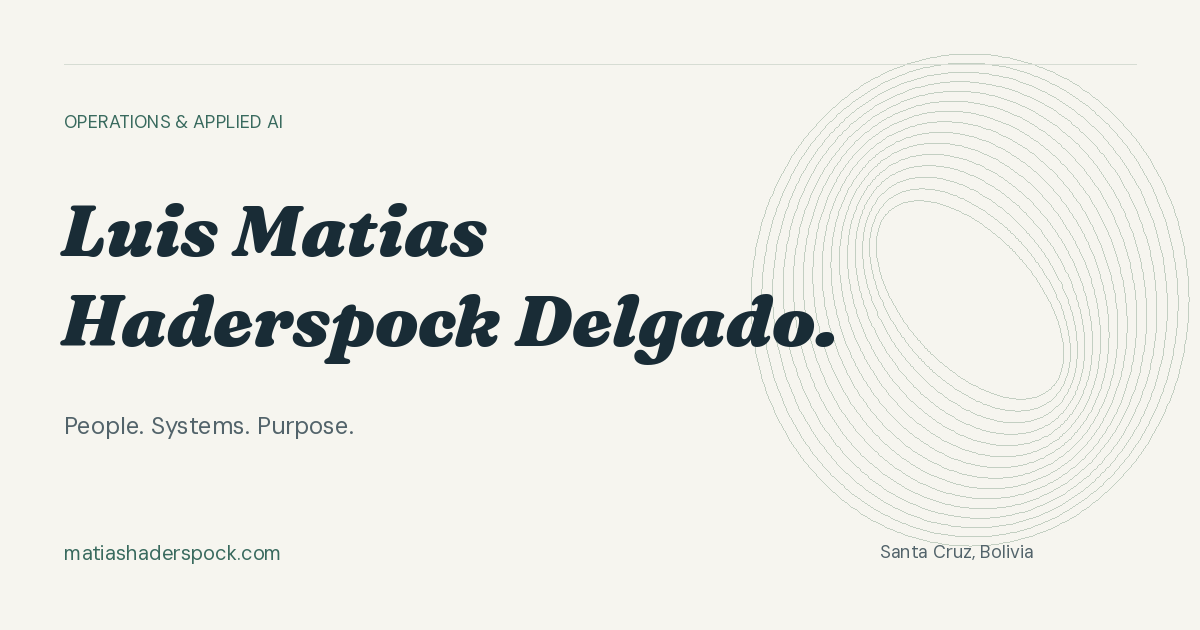
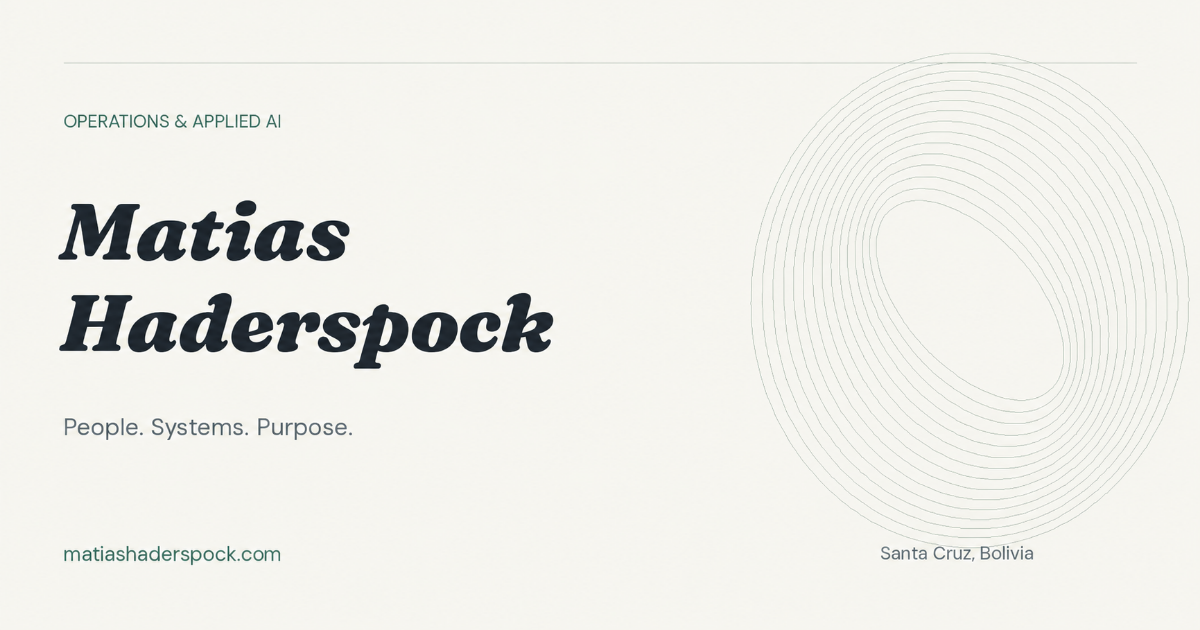
Show name as Matias Haderspock

diff --git a/public/es/index.html b/public/es/index.html
@@ -6,7 +6,7 @@
   <meta name="color-scheme" content="light dark">
   <meta name="theme-color" content="#f6f5ef">
   <title>Matias Haderspock — Operaciones e IA aplicada</title>
-  <meta name="description" content="Luis Matias Haderspock Delgado, Country Head de Operaciones Logísticas de Yango Bolivia. Personas, logística y herramientas de IA y automatización con propósito.">
+  <meta name="description" content="Matias Haderspock, Country Head de Operaciones Logísticas de Yango Bolivia. Personas, logística y herramientas de IA y automatización con propósito.">
 
   <link rel="canonical" href="https://matiashaderspock.com/es/">
   <link rel="alternate" hreflang="en" href="https://matiashaderspock.com/">
@@ -15,7 +15,7 @@
   <meta property="og:type" content="website">
   <meta property="og:site_name" content="Matias Haderspock">
   <meta property="og:title" content="Matias Haderspock — Operaciones e IA aplicada">
-  <meta property="og:description" content="Luis Matias Haderspock Delgado, Country Head de Operaciones Logísticas de Yango Bolivia. Personas, logística y herramientas de IA y automatización con propósito.">
+  <meta property="og:description" content="Matias Haderspock, Country Head de Operaciones Logísticas de Yango Bolivia. Personas, logística y herramientas de IA y automatización con propósito.">
   <meta property="og:url" content="https://matiashaderspock.com/es/">
   <meta property="og:locale" content="es_BO">
   <meta property="og:locale:alternate" content="en_US">
@@ -25,7 +25,7 @@
   <meta property="og:image:alt" content="Matias Haderspock — Operaciones e IA aplicada">
   <meta name="twitter:card" content="summary_large_image">
   <meta name="twitter:title" content="Matias Haderspock — Operaciones e IA aplicada">
-  <meta name="twitter:description" content="Luis Matias Haderspock Delgado, Country Head de Operaciones Logísticas de Yango Bolivia. Personas, logística y herramientas de IA y automatización con propósito.">
+  <meta name="twitter:description" content="Matias Haderspock, Country Head de Operaciones Logísticas de Yango Bolivia. Personas, logística y herramientas de IA y automatización con propósito.">
   <meta name="twitter:image" content="https://matiashaderspock.com/assets/og-es.png">
   <link rel="icon" href="/favicon.svg" type="image/svg+xml">
   <link rel="icon" href="/favicon.ico" sizes="32x32">
@@ -48,14 +48,14 @@
   </header>
   <main id="main" tabindex="-1">
     <section class="hero wrap" aria-labelledby="hero-title">
-      <div class="hero-content"><p class="eyebrow"><span class="small-rule"></span>Líder de operaciones y creador curioso</p><h1 id="hero-title">Luis Matias<br>Haderspock <em>Delgado.</em></h1><p class="hero-intro">Country Head de Operaciones Logísticas de <strong>Yango Bolivia.</strong> Lidero personas y desarrollo herramientas de IA y automatización para mejorar las operaciones del día a día.</p><div class="hero-actions"><a class="button primary" href="#work">Explorar mis proyectos <span aria-hidden="true">↘</span></a><a class="text-link" href="/es/resume/">Ver currículum <span aria-hidden="true">↗</span></a></div><p class="location"><span class="location-dot" aria-hidden="true"></span>Desde Santa Cruz, Bolivia<span class="location-time">UTC−4</span></p><div class="hero-socials"><ul class="social-links"><li><a href="https://github.com/matiashaderspock-ai">GitHub <span aria-hidden="true">↗</span></a></li><li><a href="https://www.linkedin.com/in/matiashaderspock/">LinkedIn <span aria-hidden="true">↗</span></a></li><li><a href="https://x.com/pandasczos">X <span aria-hidden="true">↗</span></a></li></ul></div></div>
+      <div class="hero-content"><p class="eyebrow"><span class="small-rule"></span>Líder de operaciones y creador curioso</p><h1 id="hero-title">Matias<br><em>Haderspock</em></h1><p class="hero-intro">Country Head de Operaciones Logísticas de <strong>Yango Bolivia.</strong> Lidero personas y desarrollo herramientas de IA y automatización para mejorar las operaciones del día a día.</p><div class="hero-actions"><a class="button primary" href="#work">Explorar mis proyectos <span aria-hidden="true">↘</span></a><a class="text-link" href="/es/resume/">Ver currículum <span aria-hidden="true">↗</span></a></div><p class="location"><span class="location-dot" aria-hidden="true"></span>Desde Santa Cruz, Bolivia<span class="location-time">UTC−4</span></p><div class="hero-socials"><ul class="social-links"><li><a href="https://github.com/matiashaderspock-ai">GitHub <span aria-hidden="true">↗</span></a></li><li><a href="https://www.linkedin.com/in/matiashaderspock/">LinkedIn <span aria-hidden="true">↗</span></a></li><li><a href="https://x.com/pandasczos">X <span aria-hidden="true">↗</span></a></li></ul></div></div>
       <div class="hero-art" aria-hidden="true"><span class="art-caption">PERSONAS / SISTEMAS / PROPÓSITO</span><div class="ambient-glow"></div><svg class="contour" viewBox="0 0 460 470" fill="none"><g><ellipse cx="230" cy="235" rx="66" ry="105" transform="rotate(-42 230 235)"/><ellipse cx="230" cy="235" rx="76" ry="113" transform="rotate(-39 230 235)"/><ellipse cx="230" cy="235" rx="86" ry="121" transform="rotate(-36 230 235)"/><ellipse cx="230" cy="235" rx="96" ry="129" transform="rotate(-33 230 235)"/><ellipse cx="230" cy="235" rx="106" ry="137" transform="rotate(-30 230 235)"/><ellipse cx="230" cy="235" rx="116" ry="145" transform="rotate(-27 230 235)"/><ellipse cx="230" cy="235" rx="126" ry="153" transform="rotate(-24 230 235)"/><ellipse cx="230" cy="235" rx="136" ry="161" transform="rotate(-21 230 235)"/><ellipse cx="230" cy="235" rx="146" ry="169" transform="rotate(-18 230 235)"/><ellipse cx="230" cy="235" rx="156" ry="177" transform="rotate(-15 230 235)"/><ellipse cx="230" cy="235" rx="166" ry="185" transform="rotate(-12 230 235)"/><ellipse cx="230" cy="235" rx="176" ry="193" transform="rotate(-9 230 235)"/><ellipse cx="230" cy="235" rx="186" ry="201" transform="rotate(-6 230 235)"/><ellipse cx="230" cy="235" rx="196" ry="209" transform="rotate(-3 230 235)"/></g><circle class="orbit-point" cx="346" cy="120" r="5"/></svg><div class="art-note">Un poco de estructura.<br>Más espacio para hacer.</div><span class="art-bottom"><span></span>OPERACIONES × IA APLICADA</span></div>
     </section>
     <section class="section wrap" id="work" aria-labelledby="work-title"><div class="section-heading reveal"><div><p class="eyebrow">01 / Proyectos seleccionados</p><h2 id="work-title">Creados con propósito.</h2></div><p>Pequeñas herramientas para la vida real. Algunas cosas que diseñé para aportar claridad al trabajo, las finanzas y el movimiento.</p></div><div class="projects-grid"><article class="project-card reveal" id="grok"><div class="project-top"><div class="project-icon icon-grok"><svg width="48" height="48" viewBox="0 0 48 48" fill="none" stroke="currentColor" stroke-width="1.5" stroke-linecap="round" stroke-linejoin="round" aria-hidden="true"><circle cx="24" cy="24" r="5"/><circle cx="10" cy="10" r="3"/><circle cx="38" cy="10" r="3"/><circle cx="10" cy="38" r="3"/><circle cx="38" cy="38" r="3"/><path d="m12 12 8 8m8 8 8 8m-24 0 8-8m8-8 8-8"/></svg></div><span class="project-number" aria-hidden="true">01</span></div><p class="eyebrow project-category">IA y automatización</p><h3>Grok Bot fleet</h3><p class="project-description">Un equipo de agentes de IA que diseñé para ayudar a organizar mi trabajo y mi vida: un jefe de gabinete, un PM de desarrollo y especialistas en finanzas y operaciones.</p><ul class="tags" aria-label="Tecnologías y temas"><li>Agentes de IA</li><li>Sistemas personales</li></ul></article>
 <article class="project-card reveal" id="monitor"><div class="project-top"><div class="project-icon icon-monitor"><svg width="48" height="48" viewBox="0 0 48 48" fill="none" stroke="currentColor" stroke-width="1.5" stroke-linecap="round" stroke-linejoin="round" aria-hidden="true"><rect x="7" y="8" width="34" height="27" rx="5"/><path d="m14 35-3 7 12-7M15 17h18M15 24h11"/><circle cx="34" cy="25" r="2"/></svg></div><span class="project-number" aria-hidden="true">02</span></div><p class="eyebrow project-category">Logística y lenguaje</p><h3>Monitor Bol</h3><p class="project-repo">courier-sentiment-bot</p><p class="project-description">Un bot de Telegram en Python que analiza con Gemini los chats de grupos de repartidores de Santa Cruz, Cochabamba y La Paz. Se ejecuta en GitHub Actions y envía reportes de moderación con problemas, acciones y preguntas pendientes.</p><ul class="tags" aria-label="Tecnologías y temas"><li>Python</li><li>Gemini</li><li>Telegram</li></ul></article>
 <article class="project-card reveal" id="gastalo"><div class="project-top"><div class="project-icon icon-gastalo"><svg width="48" height="48" viewBox="0 0 48 48" fill="none" stroke="currentColor" stroke-width="1.5" stroke-linecap="round" stroke-linejoin="round" aria-hidden="true"><rect x="7" y="12" width="34" height="27" rx="5"/><path d="M12 12V9a3 3 0 0 1 3-3h21v6M41 22H30v9h11"/><circle cx="33" cy="26.5" r=".8"/></svg></div><span class="project-number" aria-hidden="true">03</span></div><p class="eyebrow project-category">Finanzas personales</p><h3>Gástalo</h3><p class="project-description">Una aplicación web progresiva de finanzas personales. Un espacio dedicado a la práctica cotidiana de administrar el dinero.</p><ul class="tags" aria-label="Tecnologías y temas"><li>Finanzas</li><li>PWA</li></ul><div class="project-bottom"><a class="text-link" href="https://matiashaderspock-ai.github.io/gastalo/">Abrir aplicación <span class="sr-only">— Gástalo</span> <span aria-hidden="true">↗</span></a><a class="text-link" href="https://github.com/matiashaderspock-ai/gastalo">Ver en GitHub <span class="sr-only">— Gástalo</span> <span aria-hidden="true">↗</span></a></div></article>
 <article class="project-card reveal" id="cumpafit"><div class="project-top"><div class="project-icon icon-cumpafit"><svg width="48" height="48" viewBox="0 0 48 48" fill="none" stroke="currentColor" stroke-width="1.5" stroke-linecap="round" stroke-linejoin="round" aria-hidden="true"><path d="M16 24h16M8 18v12m5-17v22m27-17v12m-5-17v22M8 24H5m35 0h3"/></svg></div><span class="project-number" aria-hidden="true">04</span></div><p class="eyebrow project-category">Salud y movimiento</p><h3>Cumpafit</h3><p class="project-description">Una aplicación web progresiva de fitness, creada con JavaScript puro. Un proyecto personal que une el movimiento con las ganas de crear.</p><ul class="tags" aria-label="Tecnologías y temas"><li>Vanilla JS</li><li>PWA</li></ul><div class="project-bottom"><a class="text-link" href="https://matiashaderspock-ai.github.io/cumpafit/">Abrir aplicación <span class="sr-only">— Cumpafit</span> <span aria-hidden="true">↗</span></a><a class="text-link" href="https://github.com/matiashaderspock-ai/cumpafit">Ver en GitHub <span class="sr-only">— Cumpafit</span> <span aria-hidden="true">↗</span></a></div></article></div></section>
-    <section class="about-section section" id="about" aria-labelledby="about-title"><div class="wrap about-grid"><div class="reveal"><p class="eyebrow">02 / La persona detrás de las herramientas</p><h2 id="about-title">Primero las personas.<br>Sistemas que ayudan.</h2><svg class="about-monogram" width="250" height="180" viewBox="0 0 250 180" aria-hidden="true"><text x="0" y="145" fill="currentColor">mh.</text></svg></div><div class="about-copy reveal"><p class="lead">Soy Luis Matias Haderspock Delgado, líder de operaciones en Santa Cruz, Bolivia. Mi trabajo conecta la logística, las personas y la tecnología práctica.</p><p>En Yango en Santa Cruz, lidero equipos de back office en Activación, Moderación, Call Center y Soporte, junto con una red de repartidores. Alcanzamos el puesto #1 a nivel global en indicadores de calidad desde el primer mes. Antes, creé desde cero el Departamento de Logística de Santa Cruz Services S.A. (Grupo Fassil), lideré un equipo de back office de 60 personas, definí las políticas administrativas y financieras del Grupo para la cadena de suministro nacional y gestioné la entrega de tarjetas de última milla en todo el país.</p><dl class="stats"><div><dt>35+</dt><dd>personas de back office</dd></div><div><dt>1.500+</dt><dd>repartidores</dd></div></dl><p class="stats-note">Alcance del liderazgo en Yango Bolivia</p><h3>Una perspectiva más amplia</h3><p>Viví en Alemania aproximadamente seis años y hablo español, inglés y alemán. Fuera del trabajo: fútbol, calistenia, cocina y una buena taza de café.</p><a class="text-link" href="/es/resume/">Experiencia, formación y más <span aria-hidden="true">↗</span></a></div></div></section>
+    <section class="about-section section" id="about" aria-labelledby="about-title"><div class="wrap about-grid"><div class="reveal"><p class="eyebrow">02 / La persona detrás de las herramientas</p><h2 id="about-title">Primero las personas.<br>Sistemas que ayudan.</h2><svg class="about-monogram" width="250" height="180" viewBox="0 0 250 180" aria-hidden="true"><text x="0" y="145" fill="currentColor">mh.</text></svg></div><div class="about-copy reveal"><p class="lead">Soy Matias Haderspock, líder de operaciones en Santa Cruz, Bolivia. Mi trabajo conecta la logística, las personas y la tecnología práctica.</p><p>En Yango en Santa Cruz, lidero equipos de back office en Activación, Moderación, Call Center y Soporte, junto con una red de repartidores. Alcanzamos el puesto #1 a nivel global en indicadores de calidad desde el primer mes. Antes, creé desde cero el Departamento de Logística de Santa Cruz Services S.A. (Grupo Fassil), lideré un equipo de back office de 60 personas, definí las políticas administrativas y financieras del Grupo para la cadena de suministro nacional y gestioné la entrega de tarjetas de última milla en todo el país.</p><dl class="stats"><div><dt>35+</dt><dd>personas de back office</dd></div><div><dt>1.500+</dt><dd>repartidores</dd></div></dl><p class="stats-note">Alcance del liderazgo en Yango Bolivia</p><h3>Una perspectiva más amplia</h3><p>Viví en Alemania aproximadamente seis años y hablo español, inglés y alemán. Fuera del trabajo: fútbol, calistenia, cocina y una buena taza de café.</p><a class="text-link" href="/es/resume/">Experiencia, formación y más <span aria-hidden="true">↗</span></a></div></div></section>
     <section class="contact-section wrap section reveal" id="contact" aria-labelledby="contact-title"><p class="eyebrow">03 / Sigamos en contacto</p><h2 id="contact-title">Las buenas ideas<br>empiezan conversando.</h2><p class="contact-copy">Encuentra mis proyectos en GitHub o conecta conmigo en LinkedIn y X.</p><ul class="social-links"><li><a href="https://github.com/matiashaderspock-ai">GitHub <span aria-hidden="true">↗</span></a></li><li><a href="https://www.linkedin.com/in/matiashaderspock/">LinkedIn <span aria-hidden="true">↗</span></a></li><li><a href="https://x.com/pandasczos">X <span aria-hidden="true">↗</span></a></li></ul></section>
   </main>
   <footer class="site-footer wrap"><p>© 2026 Matias Haderspock<span>Creado con cuidado en Santa Cruz, Bolivia.</span></p><a href="#top">Volver arriba <span aria-hidden="true">↑</span></a></footer>

diff --git a/public/index.html b/public/index.html
@@ -6,7 +6,7 @@
   <meta name="color-scheme" content="light dark">
   <meta name="theme-color" content="#f6f5ef">
   <title>Matias Haderspock — Operations &amp; applied AI</title>
-  <meta name="description" content="Luis Matias Haderspock Delgado, Country Head of Logistics Operations at Yango Bolivia. People, logistics, and thoughtfully built AI and automation tools.">
+  <meta name="description" content="Matias Haderspock, Country Head of Logistics Operations at Yango Bolivia. People, logistics, and thoughtfully built AI and automation tools.">
 
   <link rel="canonical" href="https://matiashaderspock.com/">
   <link rel="alternate" hreflang="en" href="https://matiashaderspock.com/">
@@ -15,7 +15,7 @@
   <meta property="og:type" content="website">
   <meta property="og:site_name" content="Matias Haderspock">
   <meta property="og:title" content="Matias Haderspock — Operations &amp; applied AI">
-  <meta property="og:description" content="Luis Matias Haderspock Delgado, Country Head of Logistics Operations at Yango Bolivia. People, logistics, and thoughtfully built AI and automation tools.">
+  <meta property="og:description" content="Matias Haderspock, Country Head of Logistics Operations at Yango Bolivia. People, logistics, and thoughtfully built AI and automation tools.">
   <meta property="og:url" content="https://matiashaderspock.com/">
   <meta property="og:locale" content="en_US">
   <meta property="og:locale:alternate" content="es_BO">
@@ -25,7 +25,7 @@
   <meta property="og:image:alt" content="Matias Haderspock — Operations &amp; applied AI">
   <meta name="twitter:card" content="summary_large_image">
   <meta name="twitter:title" content="Matias Haderspock — Operations &amp; applied AI">
-  <meta name="twitter:description" content="Luis Matias Haderspock Delgado, Country Head of Logistics Operations at Yango Bolivia. People, logistics, and thoughtfully built AI and automation tools.">
+  <meta name="twitter:description" content="Matias Haderspock, Country Head of Logistics Operations at Yango Bolivia. People, logistics, and thoughtfully built AI and automation tools.">
   <meta name="twitter:image" content="https://matiashaderspock.com/assets/og-en.png">
   <link rel="icon" href="/favicon.svg" type="image/svg+xml">
   <link rel="icon" href="/favicon.ico" sizes="32x32">
@@ -48,14 +48,14 @@
   </header>
   <main id="main" tabindex="-1">
     <section class="hero wrap" aria-labelledby="hero-title">
-      <div class="hero-content"><p class="eyebrow"><span class="small-rule"></span>Operations leader & curious builder</p><h1 id="hero-title">Luis Matias<br>Haderspock <em>Delgado.</em></h1><p class="hero-intro">Country Head of Logistics Operations at <strong>Yango Bolivia.</strong> I lead people and build AI and automation tools to make everyday operations work better.</p><div class="hero-actions"><a class="button primary" href="#work">Explore my projects <span aria-hidden="true">↘</span></a><a class="text-link" href="/resume/">View résumé <span aria-hidden="true">↗</span></a></div><p class="location"><span class="location-dot" aria-hidden="true"></span>Based in Santa Cruz, Bolivia<span class="location-time">UTC−4</span></p><div class="hero-socials"><ul class="social-links"><li><a href="https://github.com/matiashaderspock-ai">GitHub <span aria-hidden="true">↗</span></a></li><li><a href="https://www.linkedin.com/in/matiashaderspock/">LinkedIn <span aria-hidden="true">↗</span></a></li><li><a href="https://x.com/pandasczos">X <span aria-hidden="true">↗</span></a></li></ul></div></div>
+      <div class="hero-content"><p class="eyebrow"><span class="small-rule"></span>Operations leader & curious builder</p><h1 id="hero-title">Matias<br><em>Haderspock</em></h1><p class="hero-intro">Country Head of Logistics Operations at <strong>Yango Bolivia.</strong> I lead people and build AI and automation tools to make everyday operations work better.</p><div class="hero-actions"><a class="button primary" href="#work">Explore my projects <span aria-hidden="true">↘</span></a><a class="text-link" href="/resume/">View résumé <span aria-hidden="true">↗</span></a></div><p class="location"><span class="location-dot" aria-hidden="true"></span>Based in Santa Cruz, Bolivia<span class="location-time">UTC−4</span></p><div class="hero-socials"><ul class="social-links"><li><a href="https://github.com/matiashaderspock-ai">GitHub <span aria-hidden="true">↗</span></a></li><li><a href="https://www.linkedin.com/in/matiashaderspock/">LinkedIn <span aria-hidden="true">↗</span></a></li><li><a href="https://x.com/pandasczos">X <span aria-hidden="true">↗</span></a></li></ul></div></div>
       <div class="hero-art" aria-hidden="true"><span class="art-caption">PEOPLE / SYSTEMS / PURPOSE</span><div class="ambient-glow"></div><svg class="contour" viewBox="0 0 460 470" fill="none"><g><ellipse cx="230" cy="235" rx="66" ry="105" transform="rotate(-42 230 235)"/><ellipse cx="230" cy="235" rx="76" ry="113" transform="rotate(-39 230 235)"/><ellipse cx="230" cy="235" rx="86" ry="121" transform="rotate(-36 230 235)"/><ellipse cx="230" cy="235" rx="96" ry="129" transform="rotate(-33 230 235)"/><ellipse cx="230" cy="235" rx="106" ry="137" transform="rotate(-30 230 235)"/><ellipse cx="230" cy="235" rx="116" ry="145" transform="rotate(-27 230 235)"/><ellipse cx="230" cy="235" rx="126" ry="153" transform="rotate(-24 230 235)"/><ellipse cx="230" cy="235" rx="136" ry="161" transform="rotate(-21 230 235)"/><ellipse cx="230" cy="235" rx="146" ry="169" transform="rotate(-18 230 235)"/><ellipse cx="230" cy="235" rx="156" ry="177" transform="rotate(-15 230 235)"/><ellipse cx="230" cy="235" rx="166" ry="185" transform="rotate(-12 230 235)"/><ellipse cx="230" cy="235" rx="176" ry="193" transform="rotate(-9 230 235)"/><ellipse cx="230" cy="235" rx="186" ry="201" transform="rotate(-6 230 235)"/><ellipse cx="230" cy="235" rx="196" ry="209" transform="rotate(-3 230 235)"/></g><circle class="orbit-point" cx="346" cy="120" r="5"/></svg><div class="art-note">A little structure.<br>Room to do more.</div><span class="art-bottom"><span></span>OPERATIONS × APPLIED AI</span></div>
     </section>
     <section class="section wrap" id="work" aria-labelledby="work-title"><div class="section-heading reveal"><div><p class="eyebrow">01 / Selected projects</p><h2 id="work-title">Built with purpose.</h2></div><p>Small tools for real life. A few things I’ve designed to bring more clarity to work, money, and movement.</p></div><div class="projects-grid"><article class="project-card reveal" id="grok"><div class="project-top"><div class="project-icon icon-grok"><svg width="48" height="48" viewBox="0 0 48 48" fill="none" stroke="currentColor" stroke-width="1.5" stroke-linecap="round" stroke-linejoin="round" aria-hidden="true"><circle cx="24" cy="24" r="5"/><circle cx="10" cy="10" r="3"/><circle cx="38" cy="10" r="3"/><circle cx="10" cy="38" r="3"/><circle cx="38" cy="38" r="3"/><path d="m12 12 8 8m8 8 8 8m-24 0 8-8m8-8 8-8"/></svg></div><span class="project-number" aria-hidden="true">01</span></div><p class="eyebrow project-category">AI & automation</p><h3>Grok Bot fleet</h3><p class="project-description">A team of AI agents I designed to help run my work and life: a chief of staff, a coding PM, and specialists in finance and operations.</p><ul class="tags" aria-label="Technologies and topics"><li>AI agents</li><li>Personal systems</li></ul></article>
 <article class="project-card reveal" id="monitor"><div class="project-top"><div class="project-icon icon-monitor"><svg width="48" height="48" viewBox="0 0 48 48" fill="none" stroke="currentColor" stroke-width="1.5" stroke-linecap="round" stroke-linejoin="round" aria-hidden="true"><rect x="7" y="8" width="34" height="27" rx="5"/><path d="m14 35-3 7 12-7M15 17h18M15 24h11"/><circle cx="34" cy="25" r="2"/></svg></div><span class="project-number" aria-hidden="true">02</span></div><p class="eyebrow project-category">Logistics & language</p><h3>Monitor Bol</h3><p class="project-repo">courier-sentiment-bot</p><p class="project-description">A Python Telegram bot that analyzes courier group chats in Santa Cruz, Cochabamba, and La Paz with Gemini. It runs on GitHub Actions and sends moderation reports with problems, actions, and pending questions.</p><ul class="tags" aria-label="Technologies and topics"><li>Python</li><li>Gemini</li><li>Telegram</li></ul></article>
 <article class="project-card reveal" id="gastalo"><div class="project-top"><div class="project-icon icon-gastalo"><svg width="48" height="48" viewBox="0 0 48 48" fill="none" stroke="currentColor" stroke-width="1.5" stroke-linecap="round" stroke-linejoin="round" aria-hidden="true"><rect x="7" y="12" width="34" height="27" rx="5"/><path d="M12 12V9a3 3 0 0 1 3-3h21v6M41 22H30v9h11"/><circle cx="33" cy="26.5" r=".8"/></svg></div><span class="project-number" aria-hidden="true">03</span></div><p class="eyebrow project-category">Personal finance</p><h3>Gástalo</h3><p class="project-description">A personal finance progressive web app. A dedicated space for the everyday practice of managing money.</p><ul class="tags" aria-label="Technologies and topics"><li>Finance</li><li>PWA</li></ul><div class="project-bottom"><a class="text-link" href="https://matiashaderspock-ai.github.io/gastalo/">Open app <span class="sr-only">— Gástalo</span> <span aria-hidden="true">↗</span></a><a class="text-link" href="https://github.com/matiashaderspock-ai/gastalo">View on GitHub <span class="sr-only">— Gástalo</span> <span aria-hidden="true">↗</span></a></div></article>
 <article class="project-card reveal" id="cumpafit"><div class="project-top"><div class="project-icon icon-cumpafit"><svg width="48" height="48" viewBox="0 0 48 48" fill="none" stroke="currentColor" stroke-width="1.5" stroke-linecap="round" stroke-linejoin="round" aria-hidden="true"><path d="M16 24h16M8 18v12m5-17v22m27-17v12m-5-17v22M8 24H5m35 0h3"/></svg></div><span class="project-number" aria-hidden="true">04</span></div><p class="eyebrow project-category">Health & movement</p><h3>Cumpafit</h3><p class="project-description">A fitness progressive web app, built with vanilla JavaScript. A personal project at the intersection of movement and making things.</p><ul class="tags" aria-label="Technologies and topics"><li>Vanilla JS</li><li>PWA</li></ul><div class="project-bottom"><a class="text-link" href="https://matiashaderspock-ai.github.io/cumpafit/">Open app <span class="sr-only">— Cumpafit</span> <span aria-hidden="true">↗</span></a><a class="text-link" href="https://github.com/matiashaderspock-ai/cumpafit">View on GitHub <span class="sr-only">— Cumpafit</span> <span aria-hidden="true">↗</span></a></div></article></div></section>
-    <section class="about-section section" id="about" aria-labelledby="about-title"><div class="wrap about-grid"><div class="reveal"><p class="eyebrow">02 / The person behind the tools</p><h2 id="about-title">People first.<br>Systems that help.</h2><svg class="about-monogram" width="250" height="180" viewBox="0 0 250 180" aria-hidden="true"><text x="0" y="145" fill="currentColor">mh.</text></svg></div><div class="about-copy reveal"><p class="lead">I’m Luis Matias Haderspock Delgado, an operations leader based in Santa Cruz, Bolivia. My work connects logistics, people, and practical technology.</p><p>At Yango in Santa Cruz, I lead back-office teams across Activation, Moderation, Call Center, and Support, alongside a network of couriers. We ranked #1 globally in quality metrics from the first month. Before that, I built the Logistics Department at Santa Cruz Services S.A. (Fassil Group) from scratch, led a back-office team of 60, set the Group’s administrative and financial policies for the national supply chain, and managed nationwide last-mile card delivery.</p><dl class="stats"><div><dt>35+</dt><dd>back-office staff</dd></div><div><dt>1,500+</dt><dd>couriers</dd></div></dl><p class="stats-note">Scope of leadership at Yango Bolivia</p><h3>A broader perspective</h3><p>I lived in Germany for approximately six years and speak Spanish, English, and German. Outside work: football, calisthenics, cooking, and a good cup of coffee.</p><a class="text-link" href="/resume/">Experience, education & more <span aria-hidden="true">↗</span></a></div></div></section>
+    <section class="about-section section" id="about" aria-labelledby="about-title"><div class="wrap about-grid"><div class="reveal"><p class="eyebrow">02 / The person behind the tools</p><h2 id="about-title">People first.<br>Systems that help.</h2><svg class="about-monogram" width="250" height="180" viewBox="0 0 250 180" aria-hidden="true"><text x="0" y="145" fill="currentColor">mh.</text></svg></div><div class="about-copy reveal"><p class="lead">I’m Matias Haderspock, an operations leader based in Santa Cruz, Bolivia. My work connects logistics, people, and practical technology.</p><p>At Yango in Santa Cruz, I lead back-office teams across Activation, Moderation, Call Center, and Support, alongside a network of couriers. We ranked #1 globally in quality metrics from the first month. Before that, I built the Logistics Department at Santa Cruz Services S.A. (Fassil Group) from scratch, led a back-office team of 60, set the Group’s administrative and financial policies for the national supply chain, and managed nationwide last-mile card delivery.</p><dl class="stats"><div><dt>35+</dt><dd>back-office staff</dd></div><div><dt>1,500+</dt><dd>couriers</dd></div></dl><p class="stats-note">Scope of leadership at Yango Bolivia</p><h3>A broader perspective</h3><p>I lived in Germany for approximately six years and speak Spanish, English, and German. Outside work: football, calisthenics, cooking, and a good cup of coffee.</p><a class="text-link" href="/resume/">Experience, education & more <span aria-hidden="true">↗</span></a></div></div></section>
     <section class="contact-section wrap section reveal" id="contact" aria-labelledby="contact-title"><p class="eyebrow">03 / Stay connected</p><h2 id="contact-title">Good things start<br>with a conversation.</h2><p class="contact-copy">Find my projects on GitHub, or connect with me on LinkedIn and X.</p><ul class="social-links"><li><a href="https://github.com/matiashaderspock-ai">GitHub <span aria-hidden="true">↗</span></a></li><li><a href="https://www.linkedin.com/in/matiashaderspock/">LinkedIn <span aria-hidden="true">↗</span></a></li><li><a href="https://x.com/pandasczos">X <span aria-hidden="true">↗</span></a></li></ul></section>
   </main>
   <footer class="site-footer wrap"><p>© 2026 Matias Haderspock<span>Thoughtfully built in Santa Cruz, Bolivia.</span></p><a href="#top">Back to top <span aria-hidden="true">↑</span></a></footer>

diff --git a/public/es/resume/index.html b/public/es/resume/index.html
@@ -6,7 +6,7 @@
   <meta name="color-scheme" content="light dark">
   <meta name="theme-color" content="#f6f5ef">
   <title>Currículum — Matias Haderspock</title>
-  <meta name="description" content="Experiencia, formación e intereses de Luis Matias Haderspock Delgado: liderazgo logístico en Bolivia, finanzas, IA y automatización.">
+  <meta name="description" content="Experiencia, formación e intereses de Matias Haderspock: liderazgo logístico en Bolivia, finanzas, IA y automatización.">
 
   <link rel="canonical" href="https://matiashaderspock.com/es/resume/">
   <link rel="alternate" hreflang="en" href="https://matiashaderspock.com/resume/">
@@ -15,7 +15,7 @@
   <meta property="og:type" content="website">
   <meta property="og:site_name" content="Matias Haderspock">
   <meta property="og:title" content="Currículum — Matias Haderspock">
-  <meta property="og:description" content="Experiencia, formación e intereses de Luis Matias Haderspock Delgado: liderazgo logístico en Bolivia, finanzas, IA y automatización.">
+  <meta property="og:description" content="Experiencia, formación e intereses de Matias Haderspock: liderazgo logístico en Bolivia, finanzas, IA y automatización.">
   <meta property="og:url" content="https://matiashaderspock.com/es/resume/">
   <meta property="og:locale" content="es_BO">
   <meta property="og:locale:alternate" content="en_US">
@@ -25,7 +25,7 @@
   <meta property="og:image:alt" content="Currículum — Matias Haderspock">
   <meta name="twitter:card" content="summary_large_image">
   <meta name="twitter:title" content="Currículum — Matias Haderspock">
-  <meta name="twitter:description" content="Experiencia, formación e intereses de Luis Matias Haderspock Delgado: liderazgo logístico en Bolivia, finanzas, IA y automatización.">
+  <meta name="twitter:description" content="Experiencia, formación e intereses de Matias Haderspock: liderazgo logístico en Bolivia, finanzas, IA y automatización.">
   <meta name="twitter:image" content="https://matiashaderspock.com/assets/og-es.png">
   <link rel="icon" href="/favicon.svg" type="image/svg+xml">
   <link rel="icon" href="/favicon.ico" sizes="32x32">
@@ -48,7 +48,7 @@
   </header>
   <main class="resume-main wrap" id="main" tabindex="-1">
     <div class="resume-hero"><p class="eyebrow">Experiencia y perspectiva</p><h1>Un currículum, con contexto.</h1><p class="resume-intro">Liderazgo de operaciones, una base en finanzas y un interés práctico por lo que la tecnología puede hacer posible.</p><div class="resume-actions"><button class="button primary print-button" type="button" hidden>Imprimir / Guardar PDF <span aria-hidden="true">↓</span></button><a class="text-link" href="/es/">Volver al inicio <span aria-hidden="true">↗</span></a></div></div>
-    <article class="resume-sheet" aria-labelledby="resume-name"><header class="resume-identity"><div><h2 id="resume-name">Luis Matias Haderspock Delgado</h2><p>Country Head de Operaciones Logísticas · Bolivia</p></div><p>Santa Cruz, Bolivia<br><a href="https://matiashaderspock.com/es/">matiashaderspock.com/es</a></p></header>
+    <article class="resume-sheet" aria-labelledby="resume-name"><header class="resume-identity"><div><h2 id="resume-name">Matias Haderspock</h2><p>Country Head de Operaciones Logísticas · Bolivia</p></div><p>Santa Cruz, Bolivia<br><a href="https://matiashaderspock.com/es/">matiashaderspock.com/es</a></p></header>
       <div class="resume-columns">
         <div class="resume-primary">
           <section aria-labelledby="experience-title">

diff --git a/public/resume/index.html b/public/resume/index.html
@@ -6,7 +6,7 @@
   <meta name="color-scheme" content="light dark">
   <meta name="theme-color" content="#f6f5ef">
   <title>Résumé — Matias Haderspock</title>
-  <meta name="description" content="The experience, education and interests of Luis Matias Haderspock Delgado: logistics leadership in Bolivia, finance, AI and automation.">
+  <meta name="description" content="The experience, education and interests of Matias Haderspock: logistics leadership in Bolivia, finance, AI and automation.">
 
   <link rel="canonical" href="https://matiashaderspock.com/resume/">
   <link rel="alternate" hreflang="en" href="https://matiashaderspock.com/resume/">
@@ -15,7 +15,7 @@
   <meta property="og:type" content="website">
   <meta property="og:site_name" content="Matias Haderspock">
   <meta property="og:title" content="Résumé — Matias Haderspock">
-  <meta property="og:description" content="The experience, education and interests of Luis Matias Haderspock Delgado: logistics leadership in Bolivia, finance, AI and automation.">
+  <meta property="og:description" content="The experience, education and interests of Matias Haderspock: logistics leadership in Bolivia, finance, AI and automation.">
   <meta property="og:url" content="https://matiashaderspock.com/resume/">
   <meta property="og:locale" content="en_US">
   <meta property="og:locale:alternate" content="es_BO">
@@ -25,7 +25,7 @@
   <meta property="og:image:alt" content="Résumé — Matias Haderspock">
   <meta name="twitter:card" content="summary_large_image">
   <meta name="twitter:title" content="Résumé — Matias Haderspock">
-  <meta name="twitter:description" content="The experience, education and interests of Luis Matias Haderspock Delgado: logistics leadership in Bolivia, finance, AI and automation.">
+  <meta name="twitter:description" content="The experience, education and interests of Matias Haderspock: logistics leadership in Bolivia, finance, AI and automation.">
   <meta name="twitter:image" content="https://matiashaderspock.com/assets/og-en.png">
   <link rel="icon" href="/favicon.svg" type="image/svg+xml">
   <link rel="icon" href="/favicon.ico" sizes="32x32">
@@ -48,7 +48,7 @@
   </header>
   <main class="resume-main wrap" id="main" tabindex="-1">
     <div class="resume-hero"><p class="eyebrow">Experience & perspective</p><h1>A résumé, with context.</h1><p class="resume-intro">Operations leadership, a foundation in finance, and a practical interest in what technology can make possible.</p><div class="resume-actions"><button class="button primary print-button" type="button" hidden>Print / Save as PDF <span aria-hidden="true">↓</span></button><a class="text-link" href="/">Back to home <span aria-hidden="true">↗</span></a></div></div>
-    <article class="resume-sheet" aria-labelledby="resume-name"><header class="resume-identity"><div><h2 id="resume-name">Luis Matias Haderspock Delgado</h2><p>Country Head of Logistics Operations · Bolivia</p></div><p>Santa Cruz, Bolivia<br><a href="https://matiashaderspock.com/">matiashaderspock.com</a></p></header>
+    <article class="resume-sheet" aria-labelledby="resume-name"><header class="resume-identity"><div><h2 id="resume-name">Matias Haderspock</h2><p>Country Head of Logistics Operations · Bolivia</p></div><p>Santa Cruz, Bolivia<br><a href="https://matiashaderspock.com/">matiashaderspock.com</a></p></header>
       <div class="resume-columns">
         <div class="resume-primary">
           <section aria-labelledby="experience-title">

diff --git a/README.md b/README.md
@@ -1,6 +1,6 @@
 # Matias Haderspock · Personal website
 
-A bilingual, accessible personal website for Luis Matias Haderspock Delgado. Plain HTML, CSS and vanilla JavaScript. No package install, build step, framework, analytics, or contact form.
+A bilingual, accessible personal website for Matias Haderspock. Plain HTML, CSS and vanilla JavaScript. No package install, build step, framework, analytics, or contact form.
 
 The implementation is reviewed on a feature branch. Production is intended for Cloudflare Pages at **https://matiashaderspock.com**. Cloudflare has not been configured by this project.
 
